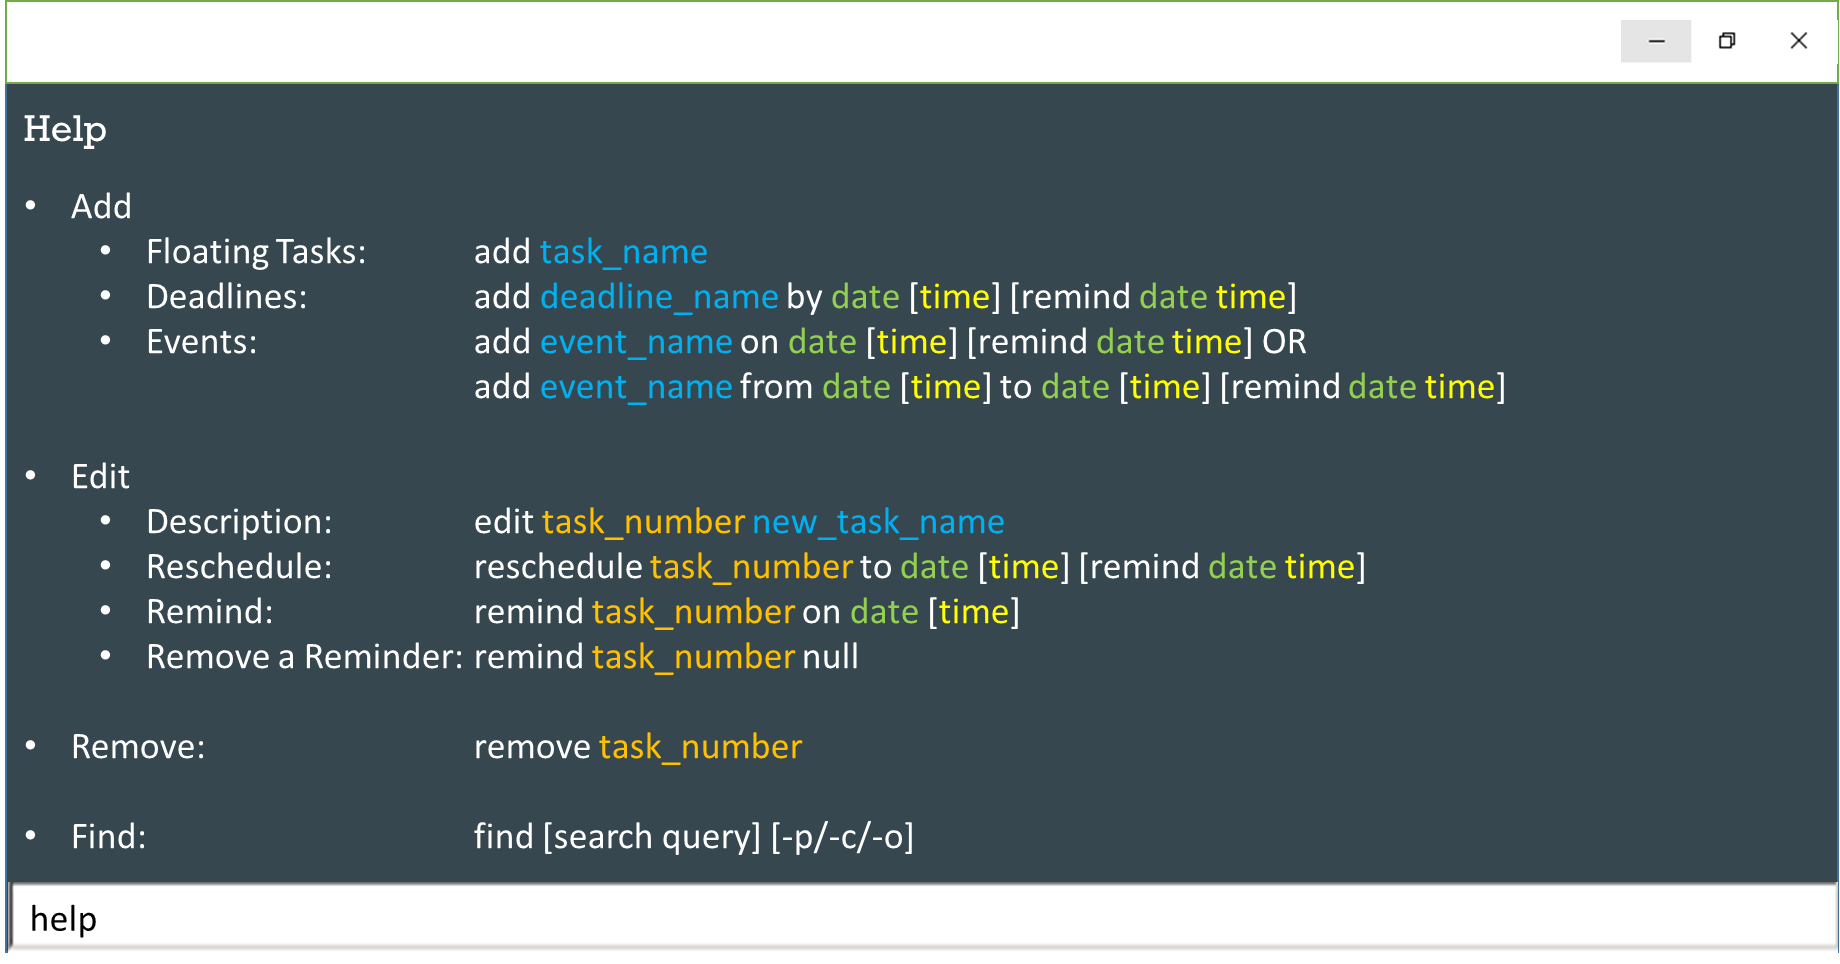
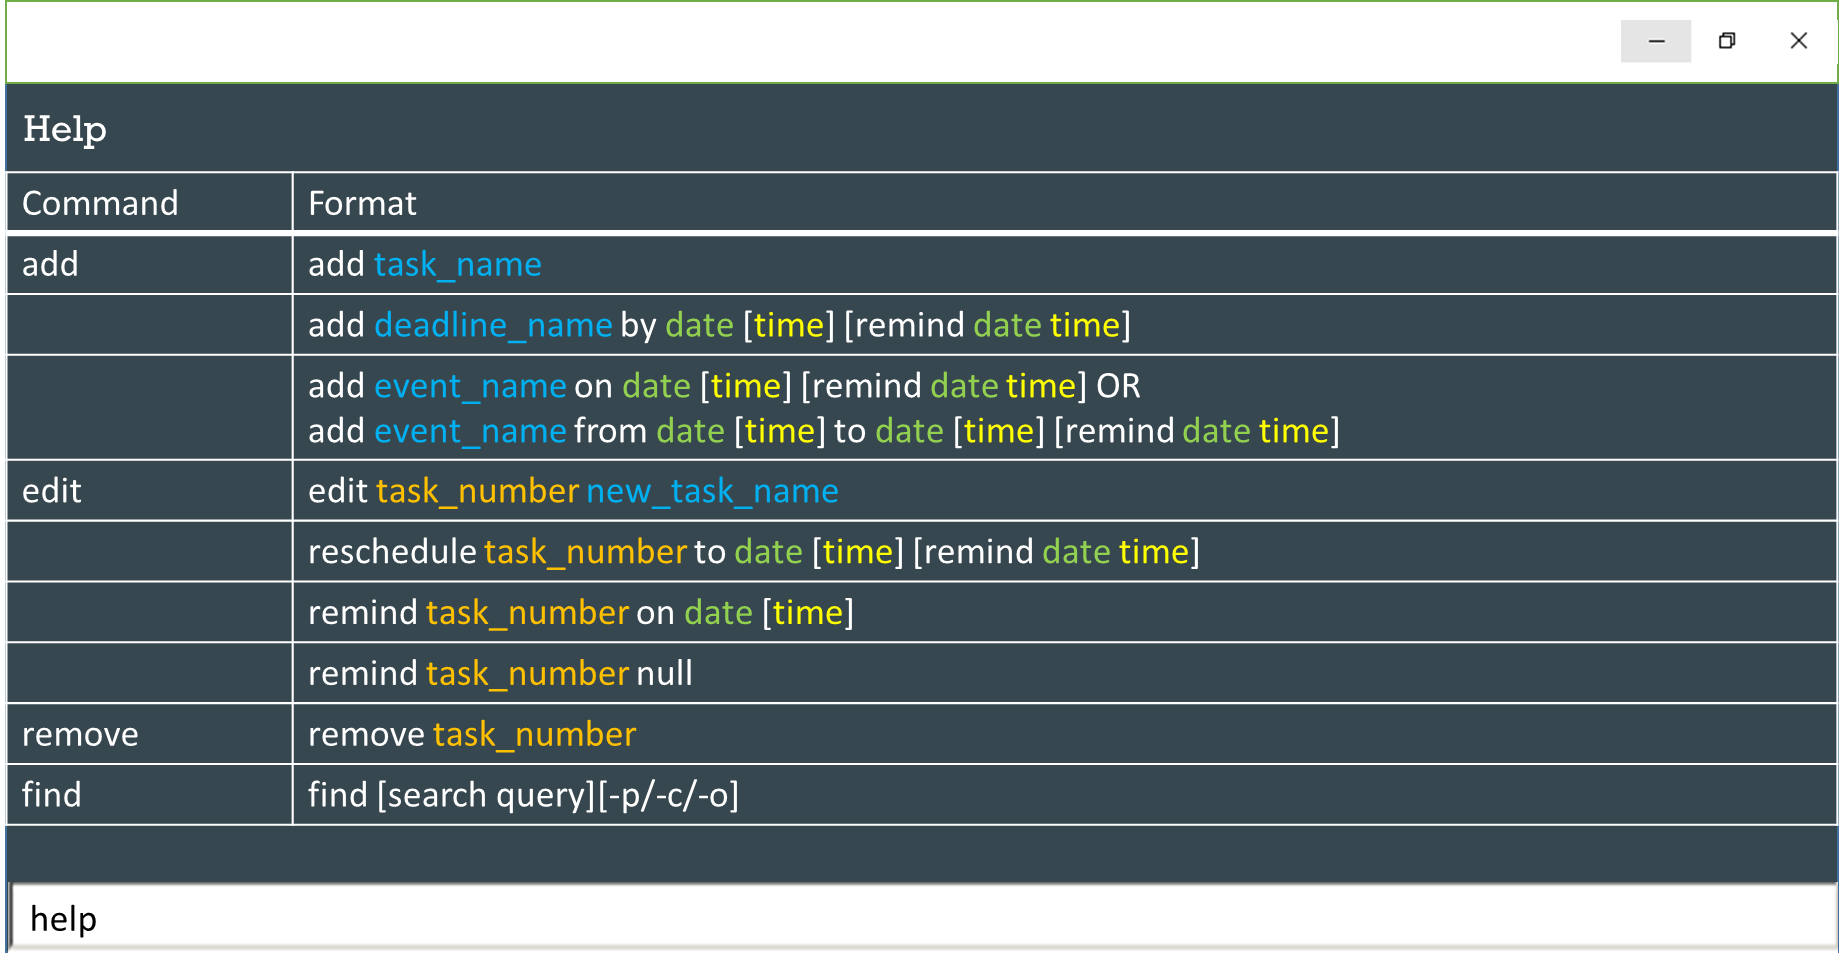
Update UI Prototypes in UserGuide.md

Changed region(s): [[0.0, 0.1556, 1.0, 0.9025], [0.0, 0.7158, 0.1239, 0.8714], [0.0, 0.5913, 0.031, 0.6224]]

diff --git a/docs/.UserGuide.md.html b/docs/.UserGuide.md.html
@@ -822,7 +822,6 @@ function setDocumentScrollTop(ypos)
 <p><br /><br /></p> 
 <h4> <a id="undoing-a-recent-command-undo" class="anchor" href="#undoing-a-recent-command-undo" aria-hidden="true"><span aria-hidden="true" class="octicon octicon-link"></span></a>Undoing a Recent Command: <code>undo</code> </h4> 
 <p>Marks a task as done. This command is used when you are finished with the task.<br /><br /> Format: <code>undo</code></p> 
-<p><a href="images/UI/Remove.png" target="_blank"><img src="images/UI/Remove.png" width="600" style="max-width:100%;" /></a> <a href="images/UI/Remove%202.png" target="_blank"><img src="images/UI/Remove%202.png" width="600" style="max-width:100%;" /></a><br /> <a href="images/UI/Undo.png" target="_blank"><img src="images/UI/Undo.png" width="600" style="max-width:100%;" /></a></p> 
 <p><br /><br /></p> 
 <h4> <a id="clearing-all-tasks-clear" class="anchor" href="#clearing-all-tasks-clear" aria-hidden="true"><span aria-hidden="true" class="octicon octicon-link"></span></a>Clearing all Tasks: <code>clear</code> </h4> 
 <p>Clears all tasks from the application.<br /><br /> Format: <code>clear</code></p> 

diff --git a/docs/UserGuide.md b/docs/UserGuide.md
@@ -163,10 +163,6 @@ Format: `undo`
 Marks a task as done. This command is used when you are finished with the task.<br><br>
 Format: `undo`
 
-<img src="images/UI/Remove.png" width="600">
-<img src="images/UI/Remove 2.png" width="600">	
-<img src="images/UI/Undo.png" width="600">
-
 <br><br>
 
 #### Clearing all Tasks: `clear`
